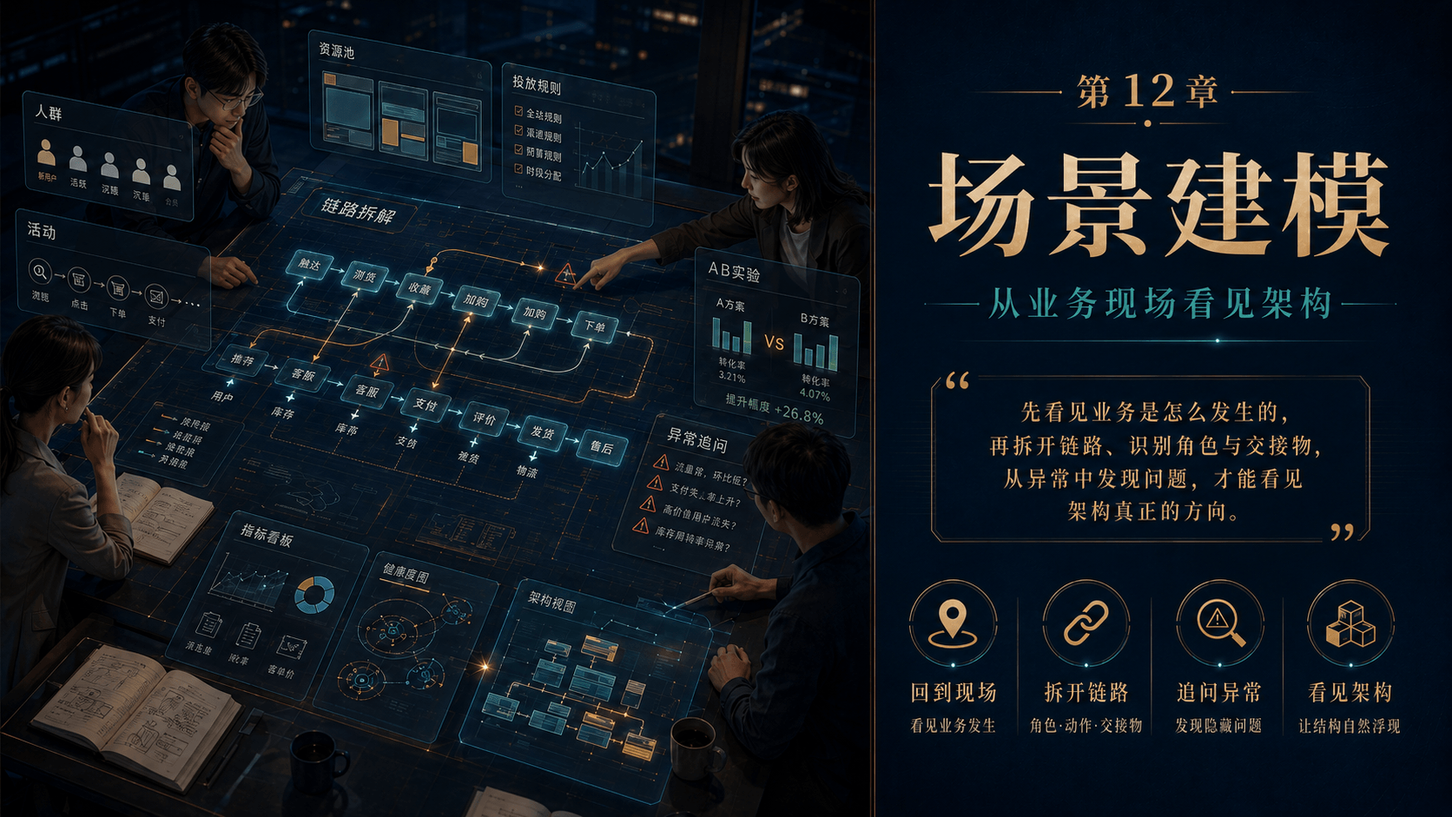
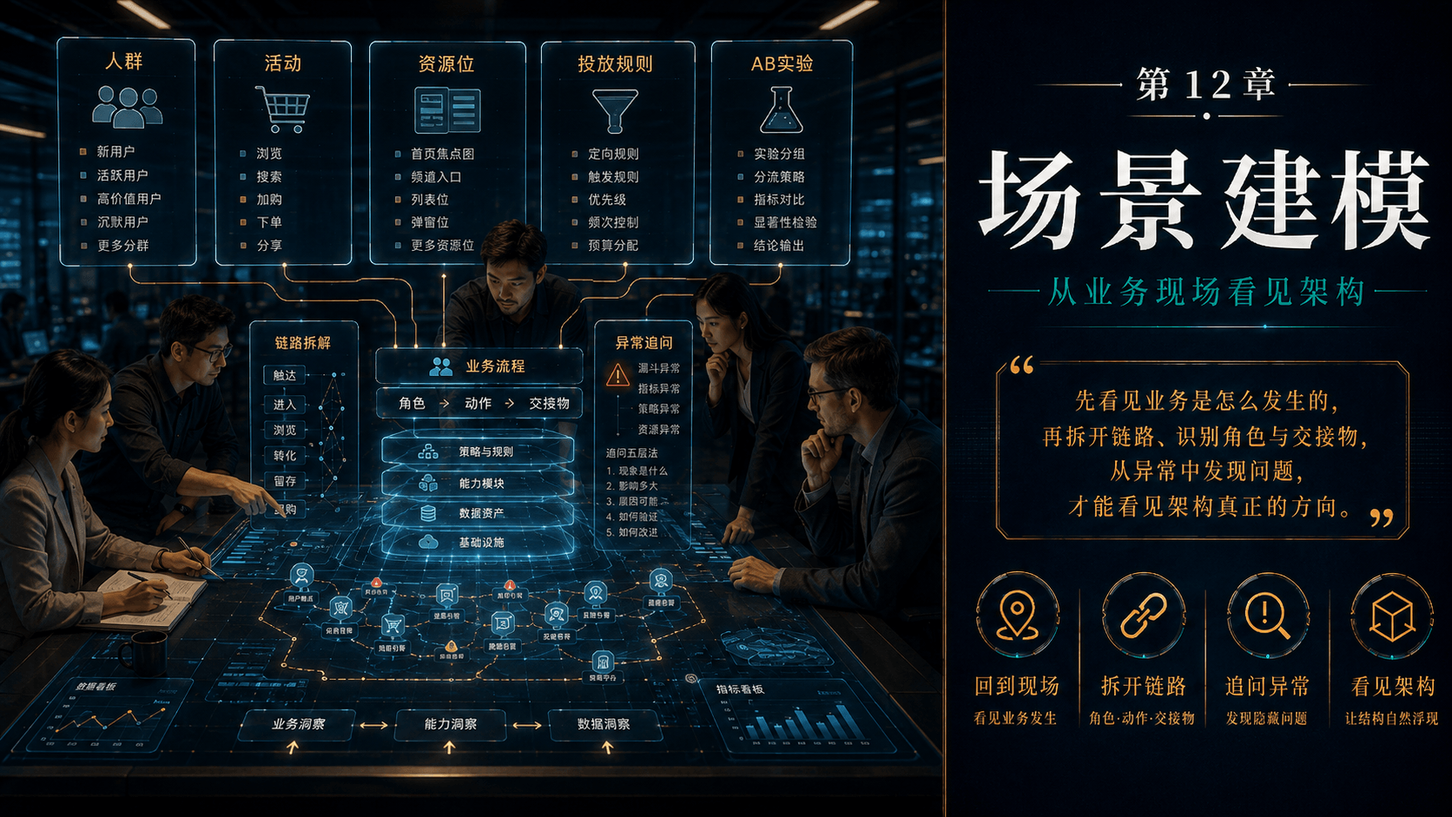
add capability abstraction chapter

diff --git a/Firefly-master/src/content/posts/jianshan/2026-05-31-capability-abstraction.md b/Firefly-master/src/content/posts/jianshan/2026-05-31-capability-abstraction.md
@@ -1,0 +1,85 @@
+---
+title: 第 13 章 · 能力抽象
+published: 2026-05-31
+description: 能力抽象不是把相似功能合在一起，而是在重复业务动作里判断哪些已经足够稳定，值得沉淀成长期维护的公共能力。
+category: 见山
+image: /assets/library/jianshan/capability-abstraction/cover.png
+tags:
+  - 产品思维
+  - 见山
+draft: false
+---
+
+## 第 13 章 · 能力抽象——从重复动作沉淀能力
+
+### 引言
+
+前面我们聊到，面对越来越复杂的业务，产品经理不能只盯着一条条需求，而要看见背后持续存在的对象、关系和规则。可这些东西一旦被看见，新的问题很快就会出现：下一次类似需求再来，我们还要不要从头做一遍？业务做得越久，这个问题越绕不开。今天做一次，过两个月换个场景又做一次；这次改几个规则，下次换一批用户、换一个活动，再重新设计、开发、测试。单看每一个需求都有自己的理由，也都能解释为什么“这次不一样”，可把一段时间里的项目摊开来看，又会发现团队不断把时间花在一些已经解决过、只是换了一种样子重新出现的问题上。
+
+作为产品经理，我们看到这种重复以后，很容易想到复用。一个功能做过几次，就想把它做成公共能力；一段逻辑反复出现，就考虑能不能改成配置；几个需求看起来差不多，也会下意识地想把它们合到一起。这个思路当然没有错，重复开发本身就是成本，如果每一次业务变化都需要产品重新写一遍需求、研发重新实现一遍逻辑、测试重新验证一遍规则，团队很快就会被大量相似工作拖住。尤其当业务进入高频迭代以后，真正稀缺的往往不是一个功能能不能做出来，而是产研还有没有时间去处理那些真正新的问题。
+
+但真正做多了以后会发现，事情没有“把重复的东西抽出来”这么简单。**重复出现，不代表它已经稳定；看起来相似，也不代表它们真的应该共用同一套能力。**有些需求只是参数不同，底下做的其实是同一件事；有些需求虽然页面、流程甚至名字都很像，背后服务的目标、约束和风险却完全不同。更麻烦的是，一旦某个东西被沉淀成公共能力，它影响的就不再只是眼前这一场业务，今天为了省一次开发做出的抽象，可能会成为以后很多需求都绕不过去的一层规则。抽得太晚，团队会一遍遍解决旧问题；抽得太早，又可能把一个还在变化的业务提前固定下来。所以我们不能把能力抽象简单理解成“怎样提高复用率”，复用只是结果，真正困难的是在一次次相似需求里判断：**哪些东西已经稳定到值得从具体项目里拿出来，哪些东西还应该继续留在业务里变化。**这一章我们就从这个问题开始，看一看当重复不断出现以后，产品经理到底应该看什么，才能判断一个东西是不是真的到了该被抽出来的时候。
+
+### 13.1 识别重复——重复不是偶然
+
+2021年我加入一家头部社交电商企业，负责营销产品线。公司于2019年上市后，注册用户规模突破1亿，业务的主要服务对象也逐渐转向C端用户。随着用户运营、促销和大促经营越来越重要，营销活动的密度迅速上升，累计做了100多场活动、几十种不同玩法。内部通常按照S+、S、A、B几个级别组织营销活动：双11、周年庆这样的S+级活动，需要重新设计一套大型主玩法；38节、双12、国庆等重要节点会有中型玩法；月中、月末和日常促活里，则会穿插大量轻量玩法。我接手这块业务时，营销玩法已经不再只是给活动增加一点氛围，而是在用户活跃、交易转化和大促增长里承担越来越重要的作用。轻一点的有红包雨、九宫格、大转盘、下单红包，用户完成某个动作以后获得一次机会，再参与抽奖或者领取奖励；中型玩法通常围绕节日和促销主题展开，把签到、浏览、分享、拉新、下单等任务串在一起，让用户连续几天参与，再逐步获得积分、奖励或者兑换资格；到了双11、周年庆这样的公司级大促，玩法又会复杂很多，主线、支线、任务、社交互动和奖励体系往往会被组织成一套完整体验。站在用户面前，它们看起来当然不是同一种东西；站在业务侧，每场活动的目标、主题和节奏也各有不同。
+
+早期大部分玩法还是按照一个个独立项目来做，从规则设计、交互视觉到研发测试，基本都围绕当次活动重新组织。这种方式最直接，也最容易满足当时的业务节奏。一个新玩法来了，产品先把参与规则、任务和奖励设计出来，设计团队完成交互和视觉，研发围绕这场活动做前后端实现，测试再把参与资格、次数、奖励、库存和异常情况逐项走一遍。轻量玩法通常需要1～2周，中型玩法往往要投入2～3周，大型玩法则经常需要数十人一起协作，一个月甚至更久。活动越来越密以后，不可能每一次都真的从零开始。已经做过的代码会被留下来，碰到相似需求时继续修改；一些结构相对简单、反复使用的小玩法，验证几次以后，也会逐渐把奖品、时间、投放页面这些地方改成可配置。但对大量中型玩法来说，更常见的还是把过去的项目翻出来，在原来的基础上做二次开发。
+
+一次两次这样做并没有什么问题，真正麻烦的是，旧项目改得越来越多以后，过去每一场活动留下来的差异，也一起留在了代码里。去年为了某批用户增加的判断还在，今年又加了一套新的参与条件；原来只有一种奖励，后来又变成不同用户对应不同奖品；有些逻辑已经没人说得清当初为什么这样写，但又不知道还有没有其他活动依赖，也不敢轻易删掉。于是一个听起来只是“在去年玩法上改一下”的需求，研发常常要先把历史逻辑重新梳理一遍，再决定哪些保留、哪些修改、哪些继续兼容。产品也一样，旧PRD虽然还在，人群、任务、奖励、次数这些规则仍然要重新确认，测试也很难因为“去年做过”就直接跳过。当这种情况从一两个项目变成十几个、几十个项目以后，一些重复也开始变得越来越明显。今天是签到以后给一次抽奖机会，下一场可能变成浏览商品以后发积分；这次要求每个人每天参与3次，下一次又要限制任务完成次数；奖品从优惠券变成积分、实物或者其他权益以后，库存怎么控制、什么时候发、发放失败怎么办，又要重新讨论。它们并不是一模一样的需求，有些玩法放在一起看甚至完全不像，但产品、研发和测试真正坐下来拆规则时，会发现很多问题已经讨论过不止一次。
+
+刚开始看到这种现象，我们很容易把它理解成“功能有点像，那就想办法复用”。两个抽奖玩法长得差不多，会先看看页面能不能共用；连续两年做相似的节日活动，会想直接沿用去年的代码；某个轻量玩法用得多了，就把整套玩法做成模板。这些办法当然都有价值，但它们解决的更多还是“怎么少做一点”。随着项目越来越多，另一个问题逐渐变得更明显：**页面看起来相似，不代表背后做的是同一件事；页面看起来完全不同，也不代表里面没有同一种业务动作在反复出现。**九宫格和大转盘在用户眼里很像，都是点一下以后得到一个结果，但用户为什么能获得这次机会、奖品从哪里来、每个人能参与几次，背后的规则未必一样。反过来看，集卡和红包雨在用户面前几乎不是一回事，一个围绕收集、合成和社交互动展开，另一个更像短时间内的即时抽奖，可真正做进系统以后，两边都会碰到任务有没有完成、机会怎么获得、奖励怎么发、什么用户可以参加、一天最多参与几次这些问题。到了大型玩法，这种差异会更加明显。每一次大促都需要新的主题、新的故事和新的用户体验，不可能因为去年投入很大，就把整套玩法原封不动地搬到今年。
+
+真正反复出现的，并不一定是玩法本身。2021年双11让这件事变得更容易看清，那一年我们做了“集卡赢大奖”主玩法，里面有任务抽卡、组队、限时领卡、赠卡、索卡等多个机制，从产品设计到研发测试接近30个工作日，上线以后又连续运行了23天。把整个玩法摊开来看，用户签到、浏览、分享、下单是在完成不同任务；任务完成以后获得卡片，涉及机会和奖励；限时领卡要处理时间、次数和库存；不同用户是否可以参加，又涉及身份和资格；组队、赠送、索取，则进一步带来了用户之间的关系和状态变化。项目越完整，过去散落在不同玩法里的东西，反而越集中地出现在同一套系统里。那次项目结束以后，再回头看过去几年做过的玩法，很多事情开始连在一起。产品一次次重新定义任务，研发一次次重新实现奖励和机会，测试一次次重新验证参与资格、次数和库存。与此同时，我们又不能简单得出一个结论，说“这些东西都差不多，全部合起来就好了”。红包雨还是红包雨，集卡还是集卡，大型玩法也仍然需要新的创意和体验。真正值得追问的是另一件事：**在这些不断变化的玩法里面，到底有哪些事情其实一直在重新发生？**
+
+过去拿到一场新活动，我们更习惯问：这次准备做什么玩法，去年有没有相似项目，哪些代码还能拿过来继续改。到了这个阶段，问题需要再往前走一步：先把红包雨、转盘、集卡这些最终呈现在用户面前的形态放到一边，看看这么多年反复设计、开发和测试的，到底是什么。如果看到的只是几个页面长得差不多，最后得到的很可能只是更多模板；只有当我们开始看见不同场景里反复出现的业务动作，能力抽象才真正有了起点。**识别重复，不是急着把相似的东西合在一起，而是先看清：变化一直发生的时候，究竟什么东西还在反复出现。**
+
+### 13.2 抽出能力——先把稳定部分拿出来
+
+看见这些重复以后，下一步似乎很自然：既然任务、奖励、机会这些东西一直在不同玩法里出现，那就把它们抽出来；红包雨、大转盘、九宫格反复使用，就继续往模板化走；再往后，人群、任务、奖池之间还需要不断组合，规则引擎似乎也迟早要有。站在后来形成的系统往回看，这些答案都不难想到，但在当时，团队并没有直接按照这张“未来架构图”往下建。玩法中心的第一阶段只先做了两个能力：**奖池和任务池**。模板库没有同步建设，规则引擎也没有上，更没有把过去几十种玩法一次性整理成一套完整平台。**因为真正需要判断的已经不是“这些东西以后能不能复用”，而是：哪些东西已经足够稳定，值得现在先从具体玩法里拿出来。**
+
+这个区别很重要，因为能力抽象本身也是一笔投入。过去定制一场活动，虽然会有重复开发，但目标至少很清楚：规则是什么，什么时候上线，这一场把它做完就结束了。可一旦要把某段逻辑变成公共能力，事情就不再只服务眼前这个需求。产品要重新梳理过去不同项目里的规则，判断哪些应该统一、哪些必须保留；研发要把原来耦合在活动代码里的逻辑拆出来，还要考虑以后不同玩法怎么接入；测试面对的不再是一组确定规则，而是不同条件组合以后会不会出问题；运营也要从“提一个需求”变成真正使用这套能力的人。与此同时，大促和日常活动还在继续发生，不会因为产品团队准备建设玩法中心就停下来等几个月。如果为了一个尚未被验证的未来，把大量产研资源先抽去搭平台，眼前业务反而被拖慢，这种抽象本身就未必划算。所以当时我们没有先讨论“玩法中心最终应该长成什么样”，而是重新把过去做过的玩法拉出来复盘。团队把历史活动里的任务、奖品和相关规则重新整理，看哪些东西出现得足够多，哪些已经在真实业务里反复验证过，接下来几场活动是不是马上还会继续使用，以及它解决的到底是不是一个长期存在的问题。这个过程和做未来规划有一点不一样：不是先想象以后可能需要什么，再把能力提前准备好，而是先看过去已经发生的事实，判断哪些东西其实已经被业务一遍遍证明了。
+
+任务和奖励就是在这个过程中最先被确认下来的。签到、浏览、分享、拉新、下单这些任务会出现在轻量玩法里，也会进入节日活动和大型玩法；玩法外壳不断变化，“让用户完成一个动作，并判断这个动作有没有完成”这件事却始终存在。奖品也是一样，优惠券、积分、实物和其他权益一直在换，但业务始终需要准备奖励、管理奖励，再在满足条件以后把它交给用户。更关键的是，这些需求并不是产品团队为了做平台才假设出来的。它们已经在过去几年里被大量活动真实使用，近期业务还会继续需要，而每一次重新开发又确实在持续消耗产品、研发和测试的时间。到了这个程度，把它们从单个项目里拿出来，才有了比较明确的理由。
+
+但同样的判断放到大型玩法上，答案就完全不同。双11和周年庆几乎每年都会发生，投入也远比普通玩法大。如果只看频率和产研成本，它们反而应该是最值得复用的一类：去年几十个人做了一个月，今年如果整套拿回来，不是可以省掉更多资源吗？可大型玩法承担的本来就是大促里的新鲜感和用户体验，主题会变，故事会变，互动机制也会变。今年集卡跑出了不错的结果，不代表明年还应该让用户重新集一遍同样的卡；周年庆今年围绕一个品牌故事展开，下一次也可能完全换一种表达。它们每年都会出现，却并没有因此变得稳定。**高频只能说明一件事经常发生，不能说明它已经成熟到值得被固定下来。**一些刚出现的探索性玩法就更明显，第一次做的时候，我们可能连用户会不会接受、规则有没有效果都还不知道，更谈不上下一次会不会继续使用。如果只是因为觉得“以后可能还会用”，第一版做完就急着抽成公共能力，很容易把一次尝试里的临时判断直接写进系统。为了兼容想象中的未来场景，产品会增加更多配置，研发会预留更多扩展，最后业务还没有验证清楚，系统倒先变复杂了。这样的能力即使以后真的用上，也可能因为第一版边界判断得太早，反而需要花更多时间重新调整。
+
+所以后来再判断一个东西是不是该从具体项目里拿出来，频率只是一个起点。真正需要看的是：**这个东西是不是已经经过足够多的真实业务验证，规则有没有开始稳定，接下来的业务还会不会继续使用，以及它现在造成的重复成本，是否已经大到值得我们承担一次公共化改造。**一个能力出现十次，但十次都在大改，未必比一个只出现五次、却始终按照相近方式被使用的东西更值得先做。前者只是经常变化，后者才可能已经开始形成稳定的业务秩序。这里还有一层更容易被忽略的代价。定制逻辑做错了，影响的通常是一场活动，需求结束以后还有机会随着项目一起退出；公共能力一旦建出来，后面的业务会开始依赖它。新的需求会围绕它继续扩展，运营会按照它提供的方式做配置，产品需要持续维护它的边界，研发和测试也要保证旧场景不能因为新变化被破坏。原来藏在一个项目里的判断，慢慢会变成很多业务共同遵守的规则。**所以能力抽象并不是简单把重复开发省掉，而是在判断：哪些业务判断已经足够成熟，可以从一次项目里的临时实现，变成团队愿意长期维护的公共能力。**
+
+从这个角度再看第一阶段为什么只做奖池和任务池，就没有那么神秘了。不是因为它们在架构图上应该处在最底层，也不是为了先把玩法中心搭出一个样子，而是当时的业务已经给出了足够多证据：它们会继续出现，基本动作已经稳定，而且继续每次重新开发的成本已经没有太大意义。至于模板库和规则引擎，团队虽然已经能够想象出来，却没有为了系统完整而提前建设。我们更愿意继续等真实业务往前走，看看新的变化会不会把这些能力真正“逼”出来。**真正该先拿出来的，不是看起来最容易复用的东西，而是那些已经被业务反复验证、规则足够稳定，继续留在单个项目里只会不断产生重复成本的部分。**
+
+### 13.3 保留变量——让抽象跟着业务继续生长
+
+第一版只有奖池和任务池，并不意味着玩法中心已经设计完成。我们当时也没有急着把模板、规则和未来可能需要的各种配置一次性补齐。前面已经讲过，一个东西只有经过真实业务反复验证，稳定到一定程度，才值得从具体项目里拿出来。既然如此，后面的能力也应该按照同样的方式出现：**不是先画出一张完整架构图，再让业务往里面填，而是让新的业务继续往前走，看原来的能力到底能支持到哪里。**后来，裂变红包雨就是一次很典型的变化。
+
+普通红包雨当时已经是一个比较成熟的轻量玩法，在不同级别的营销活动里都使用过。它的基本过程并不复杂：针对特定用户，在特定时间和页面触发红包雨，用户点击红包，满足条件以后获得一次抽奖或者领取奖励的机会。任务池和奖池建起来以后，其中两件事情已经可以独立处理：用户需要完成什么，以及完成以后获得什么。但业务并没有停在普通红包雨上，后来不同社群希望把红包雨和裂变结合起来，美妆社群可能希望用户先分享一段内容，美食社群可能要求分享某个商品，服饰社群则可能希望用户邀请好友助力。任务完成以后，有的活动增加一次抽奖机会，有的希望让红包“膨胀”，让用户进入一个价值更高的奖池。原来的任务池依然可以支持分享、助力这些任务，奖池也可以继续管理不同奖励，可把这两部分准备好以后，一场裂变红包雨仍然没有办法直接跑起来。新的问题变成了：这个玩法本身怎么玩，以及这些已经拆开的能力应该怎样组合。
+
+过去做红包雨时，我们很少需要刻意区分这些东西。红包怎么下落，用户怎么点击，点击以后怎么开奖，谁可以参加，做什么任务，发什么奖品，一天可以参与几次，往往都跟着一场活动写在同一套玩法里。只要项目能够按时上线，这样做并没有明显问题。但任务和奖池被独立出来以后，再回头看红包雨，会发现其中有些东西其实一直没有怎么变。红包从页面上落下来，用户点击红包，完成一次开奖，这套核心交互是红包雨之所以成为红包雨的部分，页面结构和基础流程也相对稳定；相比之下，什么用户参加、需要完成什么任务、最后进入哪个奖池、完成任务以后增加几次机会，却会随着每一场活动不断调整。于是我们开始把红包雨本身和这些变化拆开：模板只保留页面基本结构、红包下落和点击方式、开奖动作以及基础流程，任务和奖品不再写死在模板里面，而是从外部绑定。这样一来，同一个红包雨模板可以接分享任务，也可以接助力任务；可以使用普通奖池，也可以在特定条件下进入更高价值的奖池。另一场活动如果只想做普通红包雨，也不需要带上裂变规则。红包雨没有因为被模板化就只能按照一种方式使用，反而因为稳定部分被留下来，变化的地方有了更明确的位置。
+
+但做到这里，问题还是没有完全解决。任务、奖池和模板可以分别存在以后，它们之间怎么发生关系，仍然需要被表达。比如某类用户完成分享任务以后增加一次抽奖机会，完成助力任务以后进入另一个奖池；不同人群可以绑定不同任务，同一个任务完成以后也可能触发不同结果。如果这些关系每一次仍然写进红包雨代码，那么任务和奖池虽然已经拆出来，玩法一变化，研发还是要重新开发，规则能力就是在这个阶段变得必要的。它不负责某一个具体任务，也不负责某一种奖励，而是表达这些能力在什么条件下发生关系：谁完成了什么，接下来获得什么；满足哪个条件以后增加机会；什么人使用哪一组任务和奖池。过去藏在一场玩法代码里的判断，开始可以被单独配置和组合。到了这里，玩法中心里的几类能力才有了更清楚的分工：**奖池回答“给什么”，任务回答“做什么”，模板回答“怎么玩”，规则回答“这些东西怎么组合”。**
+
+回头看，第一阶段没有模板和规则，并不是当时漏掉了这两个能力。如果当时只是为了让玩法中心看起来完整，完全可以提前把它们画进架构图，也可以先做出一套看起来很灵活的配置后台。但那时业务还没有把问题暴露到这个程度，产品很难知道模板到底应该固定什么，规则又应该允许哪些东西组合。提前做出来，很可能只是按照当时有限的经验去猜未来。裂变红包雨的价值就在这里：它没有推翻之前的任务池和奖池，而是在原有能力继续被使用的同时，把新的问题暴露了出来。原来已经稳定的部分继续保留，新的变化则帮助团队进一步看清，哪些东西属于玩法本身，哪些应该独立配置，哪些关系不能再继续写死在代码里。
+
+所以“保留变量”并不是尽可能多做一些配置项，也不是为了以后什么需求都能支持。更重要的是在业务继续变化时不断确认边界：**已经稳定的部分，不需要再跟着业务反复变化；仍然没有稳定的部分，也不要急着固定下来。**当某种变化开始反复出现，而且边界越来越清楚时，再判断是不是应该把它从原来的能力里独立出来。第一版先有任务池和奖池，后来的业务又逐渐需要模板和规则，玩法中心就是这样一步一步形成的。它不是一次设计完成以后不断往里塞功能，而是在业务变化中把已经稳定的部分留下来，同时给新的变化保留空间。**抽象不是让业务停止变化，而是让变化发生在该变化的地方。**
+
+### 13.4 纳入治理——复用越广，越需要边界
+
+玩法中心持续迭代以后，越来越多活动开始直接使用已经沉淀下来的任务、奖池、模板和规则。任务池后来积累了20多种任务能力，奖池基本覆盖了优惠券、积分、虚拟权益、实物奖品等常见奖励形态，模板库也逐渐有了10多个经常使用的玩法。过去很多需要产品和研发重新做一遍的事情，慢慢变成运营可以直接选择和配置。能力真正被用起来以后，我们遇到的问题也开始和以前不太一样。过去更关心的是一个东西能不能复用，后来才发现：**复用得越多，一次修改可能影响的范围也越大。**有一次A级大促，我们就在共享奖池上吃过亏。当时一个C端红包雨和另一个B端玩法恰好使用了同一个奖池，两个玩法虽然共用了奖池，对奖励的要求却不完全一样。C端玩法更在意用户参与后的完整体验，即使没有抽中主要奖励，一般也会准备一个兜底奖品，至少不要让用户点开红包以后什么都没有；B端玩法更强调PK和竞争，有些场景并不要求每个人都拿到奖励。负责B端玩法的运营调整奖池时，并不知道这个奖池同时还在被C端红包雨使用。修改以后，C端红包雨出现了“空包”，用户点开红包却什么都没有，很快引发了一轮集中客诉。
+
+事情发生以后，第一反应当然是检查哪里配错了，把奖池恢复回来，再提醒相关同学以后操作时注意。但再往下追，会发现问题没有这么简单。负责B端活动的运营并没有主动去改C端红包雨，他只是修改了自己这场活动正在使用的奖池。真正变化的是，这个奖池已经不再只属于一场活动。过去一个奖池跟着一个项目走，谁在用、改了会影响哪里，几个项目成员基本都知道；现在同一个奖池可能同时被几个玩法调用，甚至在不同活动之间长期复用。对操作人来说，他看到的还是眼前这场活动，但系统里的影响范围已经变了。**以前改的是一场活动里的配置，现在改的可能是几场活动共同依赖的东西。**所以后来我们先补的，并不是什么新的玩法，而是让这种依赖能够被看见。运营准备修改奖池时，系统会提示当前还有哪些玩法正在使用，让他在真正修改之前先知道这次操作还会影响哪里。后来又发生过一两次类似问题，一些重要奖池的修改进一步接入了飞书OA审批，不再是谁能够进入后台，谁就可以直接改完生效。哪些人可以修改，哪些调整可以直接生效，哪些需要额外确认，也开始有了明确区分。
+
+但审批也不是答案的全部，活动多起来以后，选错配置、改错条件，或者在不合适的时间动了一项规则，很难保证永远不会发生。真正重要的是，出了问题以后能不能尽快发现，能不能知道最近谁改过什么，又能不能尽快恢复。于是修改记录、异常提示、监控和回退这些过去并不起眼的东西，也开始变得重要。它们不是因为玩法中心做大了，所以后台应该越来越完整，而是因为同一个能力被更多业务使用以后，一次错误已经可能影响其他活动。复用减少了重复建设，也把原来彼此独立的业务连接在了一起。这件事也让我后来重新理解了“运营自己配置”这句话。刚开始做玩法中心时，我们当然希望把已经稳定的东西交给运营，让很多活动不再必须经过产品、研发才能上线。但“可以自己使用”和“可以随意修改公共能力”其实不是一回事。运营可以决定自己这场活动选择哪个任务、绑定哪个奖池、使用哪个模板，可如果要改的是一个已经被其他活动共同使用的奖池，或者一条很多玩法都依赖的公共规则，就不能再只从当前活动出发。**使用能力可以尽量简单，改变公共能力却必须知道边界。**
+
+进入治理也不意味着玩法中心要把所有相关事情都自己做一遍。营销活动里会碰到数据观察、异常用户、薅羊毛和黑产风险，公司原本就有专门的数据和风控能力。玩法中心发展到一定阶段以后，我们更多是把这些成熟能力接进来，而不是重新做一套自己的数据和风控系统。玩法中心继续负责任务、奖励、模板和规则这些营销玩法里的事情，需要数据判断和风险控制时，就使用公司已经存在的能力。做到后面会发现，玩法中心也不需要因为自己已经成了一个平台，就把所有相关能力都收进来。**该自己长期负责的能力要接住，已经有成熟公共能力的地方，则直接使用已有体系。**
+
+从最开始的定制开发走到这里，玩法中心面对的问题已经不只是“能力能不能复用”。当越来越多活动开始共同依赖这些能力以后，我们还要继续面对另一件事：一个公共能力被修改时，其他正在使用它的业务怎么办。如果这个问题解决不了，复用得越广，风险也会跟着一起放大。**复用让一个能力可以被更多业务使用，治理则是让它在被很多人共同使用以后，仍然知道谁能改、会影响谁，以及出了问题应该怎样收回来。**
+
+### 闲言碎语
+
+有时候最难拒绝的，不是业务提出来的新需求，而是自己脑子里那张越来越完整的架构图。一个能力已经做出来了，很自然会想到旁边还有什么可以一起解决；一套配置已经能够覆盖几种场景，也很容易继续往下想，还有哪些情况可以提前兼容。再多走几步，原本只是为了处理眼前问题的系统，慢慢就会有更多层次、更多配置，也给很多未来可能发生的事情提前留好了位置。站在设计者的角度，这种感觉其实很好，原来散落在各处的东西被一点点整理起来，架构越来越完整，很多问题似乎也都有了自己的归属。
+
+但业务很少会按照我们画好的结构往前走。有些当时觉得迟早会用到的能力，后来一直没有真正出现；有些为了兼容未来增加的配置，过了一段时间连产品自己都要重新研究才能说清楚；还有一些设计时觉得足够通用的东西，真正交到业务手里以后，反而因为理解成本太高，大家宁愿绕开它。系统里能做的事情越来越多，并不等于业务因此变得更简单。有时候我们只是把原来散落在几个项目里的复杂度，重新集中到了一个更大的系统里。
+
+所以后来面对这种“顺手再多做一点”的冲动，我会比以前更谨慎一些。产品经理当然应该想得比眼前的需求更远，但想得到和现在就要做，是两回事。一个暂时没有进入系统的东西，以后真的需要时还有机会再判断；一个过早放进公共层的设计，却可能很快被业务依赖，后面再想拿掉，成本反而更高。**很多时候，知道一个东西可以怎么继续做并不难，真正难的是判断它现在有没有必要继续往前做。**能力抽象做到最后，考验的不只是我们能不能把复杂的东西整理清楚，也包括能不能接受系统暂时没有那么完整。**好的抽象不需要证明自己提前想到了多少未来，它更重要的是知道，哪些事情到了今天已经应该做，哪些事情还可以留给明天。**
+
+![能力抽象方法论](/assets/library/jianshan/capability-abstraction/methodology.png)
